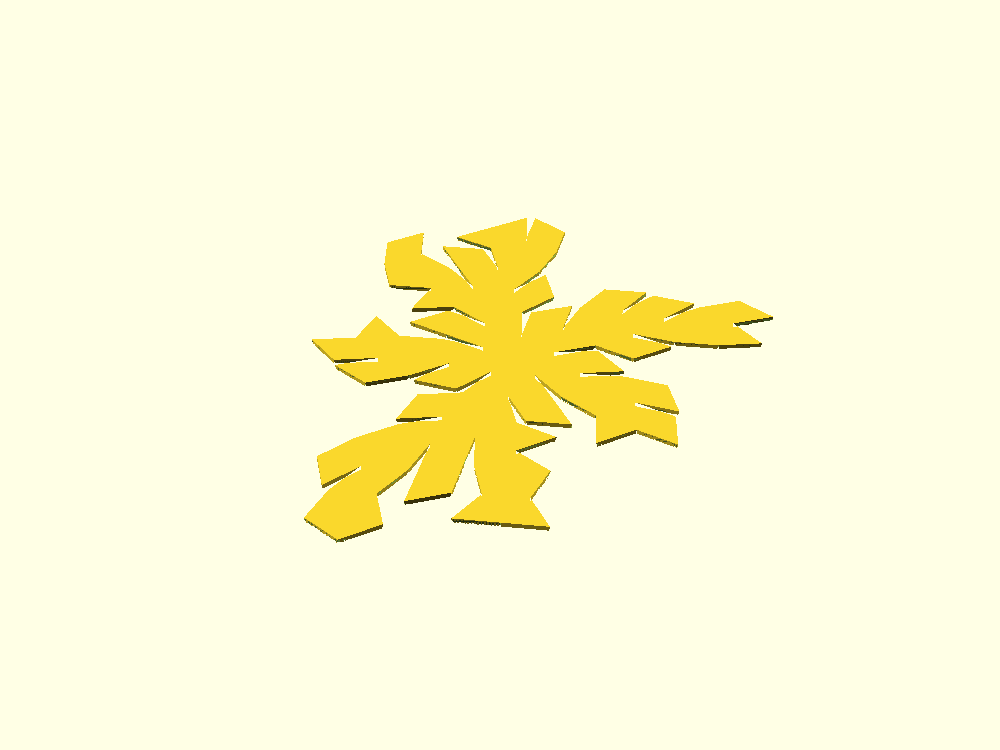
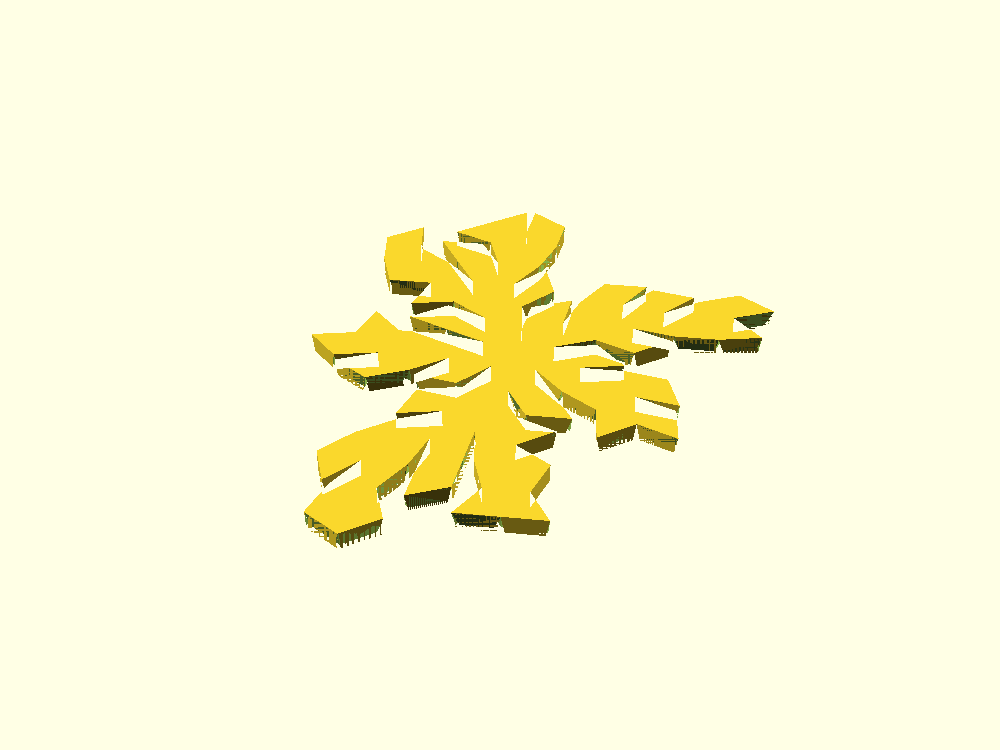
Thicker panels (default 12mm) and deeper notch (0.4mm web) for rigid panels with easy-bend hinges

Changed region(s): [[0.279, 0.3373, 0.775, 0.736], [0.372, 0.276, 0.558, 0.368]]

diff --git a/snub-dodecahedron/generate.py b/snub-dodecahedron/generate.py
@@ -32,9 +32,9 @@ def main(argv=None):
     ap.add_argument("--edge", type=float, default=30.0,
                     help="edge length of every polygon, mm (default 30)")
     ap.add_argument("--depth", "--thickness", dest="depth", type=float,
-                    default=3.0, help="plate depth / thickness, mm (default 3)")
-    ap.add_argument("--web", type=float, default=0.6,
-                    help="living-hinge web thickness at the top, mm (default 0.6)")
+                    default=12.0, help="plate depth / thickness, mm (default 12)")
+    ap.add_argument("--web", type=float, default=0.4,
+                    help="living-hinge web thickness at the top, mm (default 0.4)")
     ap.add_argument("--slack", type=float, default=6.0,
                     help="extra fold opening added to every groove, deg (default 6)")
     ap.add_argument("--over", type=float, default=0.4,

diff --git a/snub-dodecahedron/scadgen.py b/snub-dodecahedron/scadgen.py
@@ -42,8 +42,8 @@ import numpy as np
 @dataclass
 class FoldParams:
     edge_mm: float = 30.0       # length of every polygon edge
-    thickness_mm: float = 3.0   # plate depth (T)
-    web_mm: float = 0.6         # living-hinge thickness left at the top
+    thickness_mm: float = 12.0  # plate depth (T): thick, rigid panels
+    web_mm: float = 0.4         # living-hinge thickness left at the top (~2 layers)
     slack_deg: float = 6.0      # extra opening added to every fold (more room)
     over_mm: float = 0.4        # run grooves slightly past each vertex
     eps_mm: float = 0.05        # cut a hair below the bed for clean booleans

diff --git a/snub-dodecahedron/README.md b/snub-dodecahedron/README.md
@@ -81,11 +81,11 @@ sudo apt-get install openscad                      # or https://openscad.org
 ## Usage
 
 ```bash
-# default: 30 mm edges, 3 mm thick, single net, writes out/snub_net.scad + preview
+# default: 30 mm edges, 12 mm thick, single net, writes out/snub_net.scad + preview
 uv run generate.py
 
 # pick your own size/depth and also render an STL
-uv run generate.py --edge 35 --depth 4 --web 0.6 --slack 6 --stl
+uv run generate.py --edge 35 --depth 14 --web 0.4 --slack 6 --stl
 
 # split into smaller pieces (≤ 20 faces each) for easier printing/handling
 uv run generate.py --max-faces-per-piece 20 --stl
@@ -102,8 +102,8 @@ slice and print.
 | Flag | Default | Meaning |
 |---|---|---|
 | `--edge` | `30` | edge length of every polygon (mm) — sets overall size |
-| `--depth` / `--thickness` | `3` | plate depth / material thickness `T` (mm) |
-| `--web` | `0.6` | living-hinge web left at the top of each groove (mm) |
+| `--depth` / `--thickness` | `12` | plate depth / material thickness `T` (mm) — thick, rigid panels |
+| `--web` | `0.4` | living-hinge web left at the top of each groove (mm), ~1–2 print layers |
 | `--slack` | `6` | extra fold opening added to every groove (degrees) |
 | `--over` | `0.4` | run grooves this far past each vertex for a clean fold (mm) |
 | `--max-faces-per-piece` | — | split the net into pieces of at most N faces |
@@ -117,9 +117,12 @@ slice and print.
 1. **Orientation:** print the plate **inner (grooved) side down** on the bed.
    Every bevel wall is within ~`γ` of vertical (< ~20°), so the grooves are
    self-supporting — **no support material needed**.
-2. **Material:** PLA/PETG work. The `web` is a living hinge: with a single fold
-   it survives easily. For repeated folding or brittle filament, increase
-   `--web`, or reduce it toward ~0.4 mm for an easier fold.
+2. **Material:** PLA/PETG work. The default `--web 0.4` (≈1–2 layers at a
+   0.2 mm layer height) leaves a thin, easy-to-bend living hinge between the
+   thick rigid panels. Set your slicer's layer height so the web is a whole
+   number of layers (e.g. 0.4 mm web at 0.2 mm layers). For repeated folding or
+   brittle filament, increase `--web`; for an even easier single fold, drop it
+   toward one layer.
 3. **Fold** each hinge until the groove walls meet (or until the faces look
    right). The grooves are valley folds toward the inner side.
 4. **Glue** the 59 seams (and the hinge grooves, if you want a rigid result).
